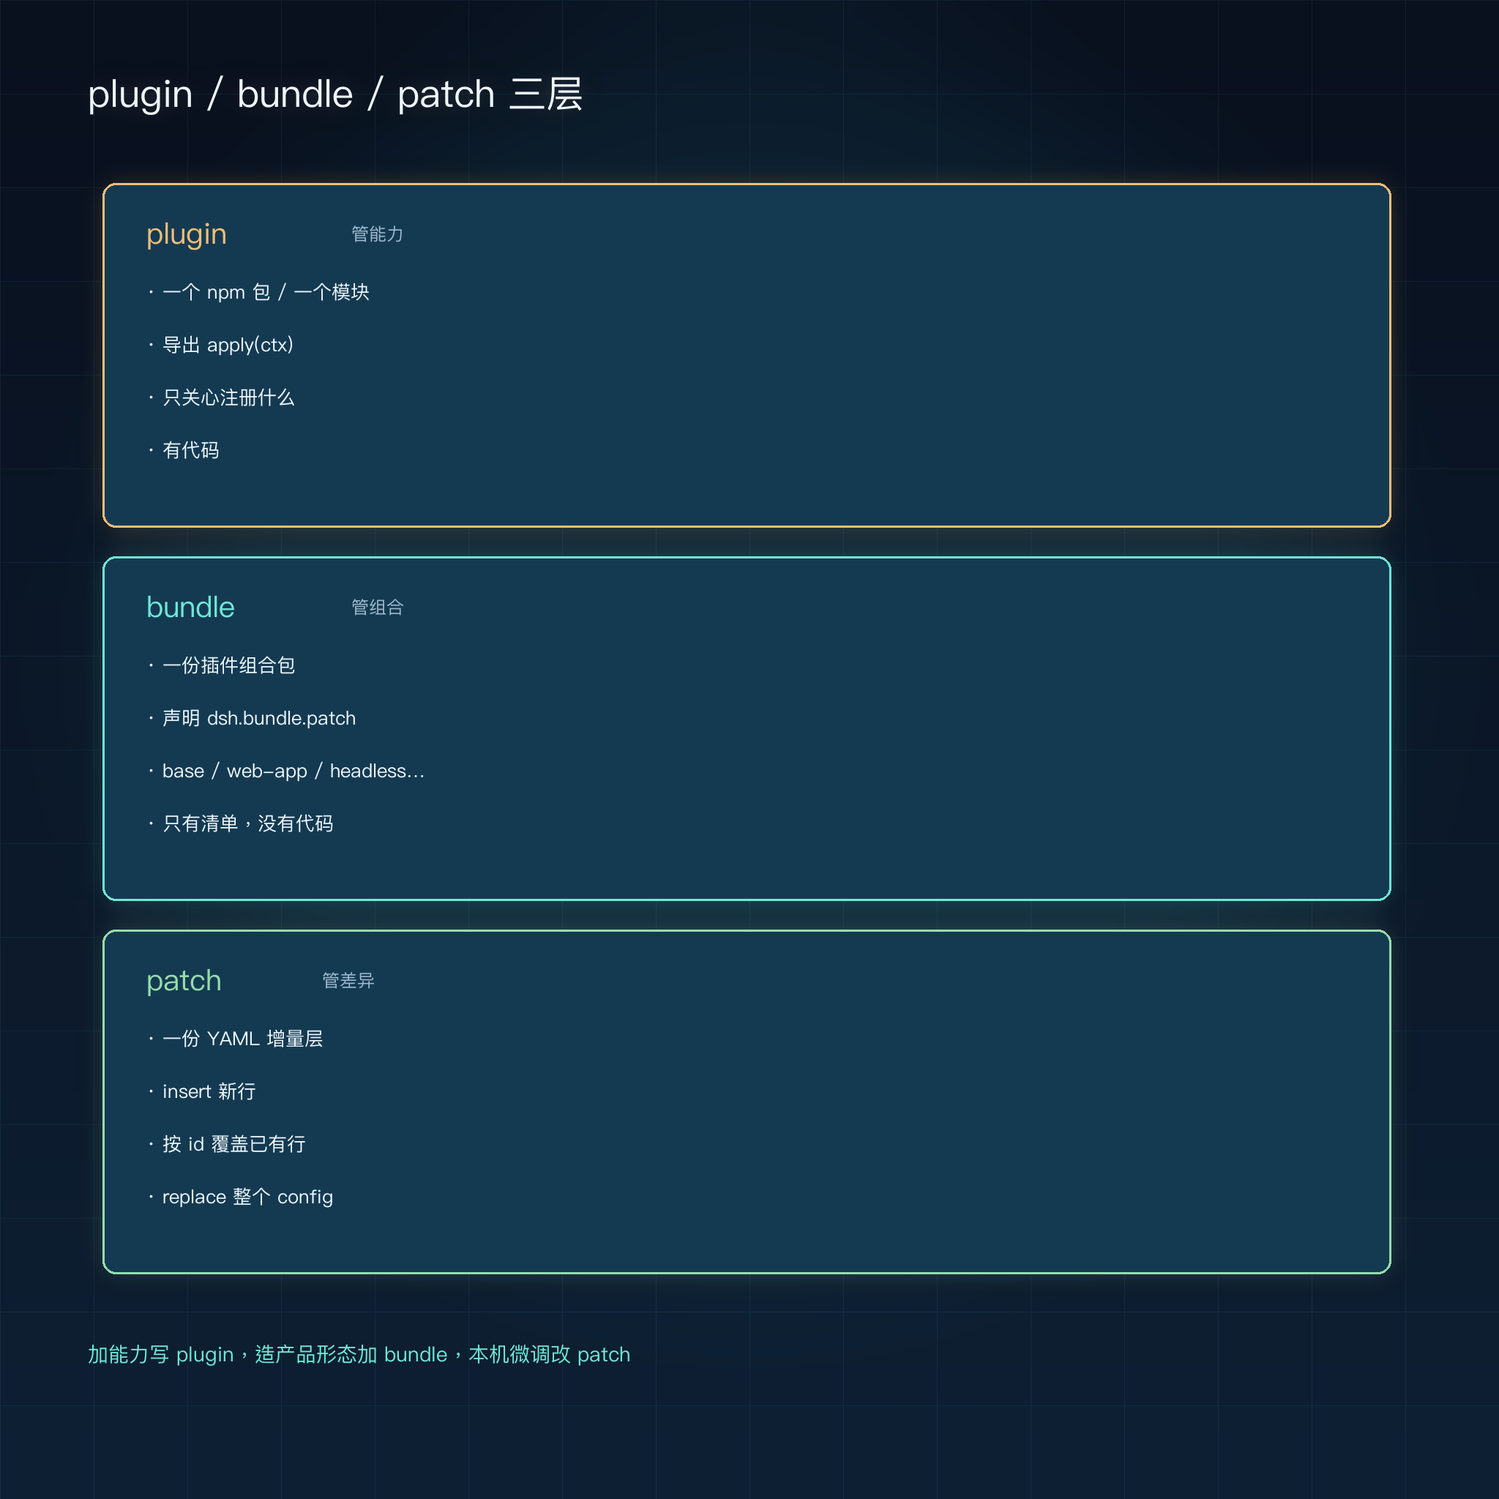
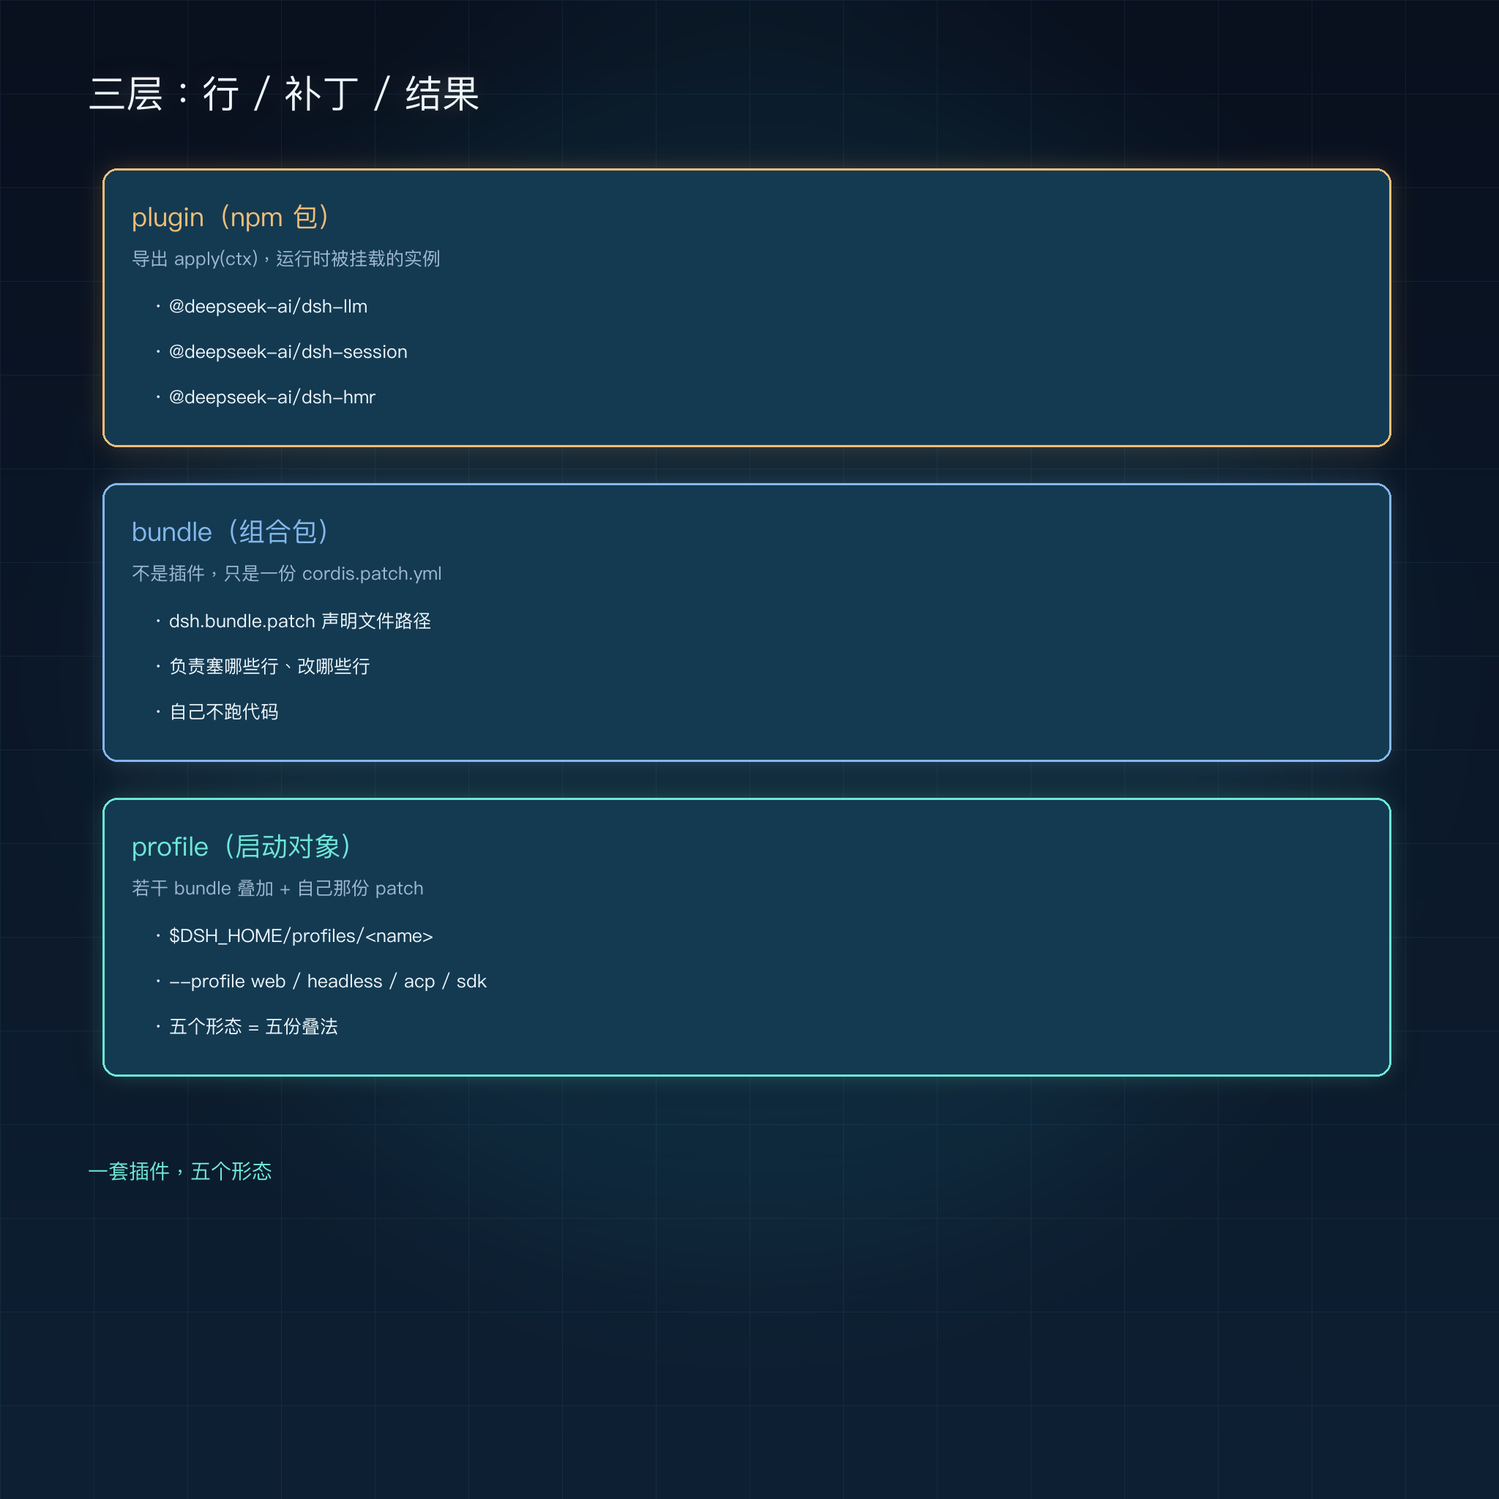
第09篇：插件三层结构，一个仓库怎么长出五个形态

Changed region(s): [[0.0625, 0.0312, 0.9375, 0.9062], [0.8438, 0.5938, 0.9375, 0.625], [0.8438, 0.5, 0.9375, 0.5312]]

diff --git a/notes/09-插件三层.md b/notes/09-插件三层.md
@@ -1,131 +1,117 @@
 ---
 series: deepseek-harness-source-notes
 part: 09
-title: "第09篇：插件三层结构，plugin / bundle / patch 怎么组装出一个应用 | 源码拆解系列"
+title: "第09篇：插件三层结构，一个仓库怎么长出五个形态 | 源码拆解系列"
 version: v0.2.2-rc.1
 commit: fcc0ad462172522aaf5c93a7b2e01f6b9f0b0159
 date: 2026-11-14
 ---
 
-# 第09篇：插件三层结构，plugin / bundle / patch 怎么组装出一个应用
+# 第09篇：插件三层结构，一个仓库怎么长出五个形态
 
-第03篇我们讲清楚了"一个插件长什么样、怎么被加载"。但那时候有个问题被跳过了：dsh 里有几百个插件，它们的清单从哪来？总不能手写一份几百行的配置文件吧。
+前面几篇基本都在讲"一个插件内部怎么干活"。但你可能有个更实际的问题：dsh 有桌面版、Web 版、命令行一次性任务版、ACP 协议版、SDK 版，这五个形态是不是五套代码？
 
-这一篇就解决这个：dsh 用三层——plugin、bundle、patch——把"一个插件"和"一个可运行的应用"之间的那段组装工作拆开了。材料来自上游 `packages/bundle/README.zh.md`、`packages/bundle/base/cordis.patch.yml` 的注释和 `packages/boot/app-boot/README.zh.md`。
+不是。它们共用同一套插件，差别只在——**配置叠了几层 patch**。
 
-## 一、三层各管什么
+这一篇讲清这个叠法。材料来自上游 `packages/bundle/README.zh.md`、`packages/boot/app-boot/README.zh.md`，以及 `packages/bundle/base/cordis.patch.yml` 这份 548 行的清单本身。
 
-先给结论：
+## 一、plugin 是行，bundle 是补丁，profile 是结果
 
-- **plugin** 是最小单位，一个导出 `apply(ctx)` 的模块，对应一个 npm 包。它只关心"我怎么在 ctx 上注册东西"。
-- **bundle** 是一份"插件组合包"，它不写代码，只声明一个 patch 文件（或一组有序的 patch 文件）。base、web-app、headless、acp-app、sdk-app、sdk-minimal 就是官方随发行版交付的六个 bundle。
-- **patch** 是一份 YAML 增量层，里面只有两种动作：`insert` 新行、按 `id` 覆盖已有行。
+先分清三个词，dsh 里它们是不同层级的东西：
 
-关键点：**bundle 里没有代码，只有清单**。`packages/bundle/web-app/` 里除了一个 `cordis.patch.yml` 和一点 locale、presets、src，主体就是那份 YAML。所以"装一个 bundle"这个动作，本质是把一层配置叠到你的 profile 上，不是装一堆依赖。
+**plugin**：一个 npm 包，导出 `apply(ctx)`，在 Cordis 里被挂载成一个运行时实例。这是第03篇讲的东西。
 
-而 profile 是什么？就是 `$DSH_HOME/profiles/<name>` 一个目录，内容是"可安装的组合包列表 + 自己的 `cordis.patch.yml`"。`dsh --profile web` 启动的东西，就是这个目录。
+**bundle**（组合包）：不是插件，是一份 `cordis.patch.yml`。它自己一行代码都不跑，只负责"往配置里塞哪些行、改哪些行的配置"。每个组合包在自己的 `package.json` 里用一个字段声明它：
 
-六个官方 bundle 的分工，一句话就能说清：
-
-| bundle | 干什么 | 挂的 ctx key |
-|---|---|---|
-| base | 共享核心，只有 patch 没有代码 | — |
-| web-app | 浏览器应用层 | 多条 Web 配置行 |
-| headless | 一次性命令行任务 | `headless-runner` |
-| acp-app | 编辑器/客户端协议的 stdio 应用 | ACP bridge |
-| sdk-app | SDK JSON-RPC stdio | SDK 服务器 |
-| sdk-minimal | 不用 base 的独立极简版 | 完整 patch 树 |
-
-注意最后一个 `sdk-minimal` 是个特例：它不基于 base，自己提供一整套完整配置树。这反过来证明了一个设计判断——base 不是"必需的底座"，只是一个"大家都同意共享的那部分"。当你的场景小到不需要那部分时，完全可以不要。
-
-而且 bundle 不只官方的能用。树外（out-of-tree）bundle 通过 `dsh plugin --profile <name> add <package>` 装进 profile；领域包也可以在自己的仓库里声明附加层，不必挤进 `packages/bundle/` 这个目录。也就是说，"造一个 dsh 变体"这件事，不需要 fork 主仓库。
-
-> 配图1 放这里：plugin / bundle / patch 三层职责与内容物
-
-## 二、叠加顺序：后写的赢，按行算
-
-一个 profile 启动时，patch 层是按固定顺序叠上去的：
-
-1. **空 profile 根**（什么都没有）
-2. **base 层**：`dsh-base` bundle 的一次大 `insert`，一次性把共享核心的几十个插件插进来
-3. **模式层**：web-app / headless / acp-app / sdk-app 其中一层，按 `id` 覆盖 base 里那些"这个模式要不一样"的行
-4. **用户的 profile patch**
-5. **home 级 patch**（比 profile 级优先）
-6. **`--patch` 命令行 overlay**
-
-规则只有一句：**按 `id` 定位，同一行后写的赢**。这是整层机制的地基。
-
-base 的注释写得很直白："Later bundle patches and the user's profile cordis.patch.yml address these rows by id, with the last write winning per row."（后面的 bundle patch 和用户 profile patch 都按 id 定位这些行，逐行后写覆盖。）
-
-所以你想改某个插件的配置，不需要找到它、不需要复制整段，只要在你的 profile patch 里写一行 `- id: llm` 加新 config 就完事。
-
-> 配图2 放这里：六层叠加顺序与"同一行后写覆盖"
-
-## 三、replace 不是 merge，这是最容易踩的坑
-
-接下来是最反直觉、也最容易写错的一条：**patch 覆盖一个行时，是替换整行的 `config`，不是深合并**。
-
-base 的注释专门警告了这一点："A patch replaces the targeted row's whole `config` rather than merging into it."（patch 替换目标行的整个 config，而不是合并进去。）
-
-这意味着：如果你只想改一个字段，也必须把这一行的**所有字段全部重述一遍**，否则没写的字段就变默认值了。
-
-就因为这个，base 里故意不写那些"每种模式值都不一样"的行——它把这些行留给模式 bundle 去写完整版本。base 注释原话是："a row whose value differs by mode does NOT live here: it belongs to each mode bundle, keeping any single row down to one bundle layer plus the user's."（值按模式不同的行不放这里，放在各模式 bundle 里，这样任何一行最多只有一层 bundle 加用户层。）
-
-这个设计意图很清楚：避免"base 写一半、web-app 又补一半"，最后谁也不知道这行的完整值是什么。宁可让 web-app 把整行重述一遍，也不要靠多层的局部合并拼出一个值。
-
-看 web-app 里的实际例子：它覆盖 `session-query-sqlite` 时，把 `path` 和 `openAt` 两个字段都重新写了一遍，不是只改其中一个。
-
-顺带一提，这条规则对"读代码"也有好处。你看到一个行被三层引用过，只要看最后一层的手里那段 YAML，就知道它最终是什么——不用像 Kubernetes 的 strategy merge patch 那样，把三层拼在脑子里算一遍。代价是写的时候啰嗦一点，收益是读的时候不用推理。这是个刻意的取舍：**宁可让写的人多写十行，也不让查问题的人多推三步**。
-
-> 配图3 放这里：replace 不是 merge 的对比 + disabled 的 !!js 条件
-
-## 四、行里可以有表达式，而且行序不决定加载顺序
-
-patch 里最灵活的一招是 `!!js` 表达式，启动时插值。base 里到处在用：
-
-```yaml
-- id: hmr
-  name: '@deepseek-ai/dsh-hmr'
-  disabled: "!!js !ctx.get('profileContext')"
+```json
+{"dsh": {"bundle": {"patch": "./cordis.patch.yml"}}}
 ```
 
-这行的意思是：如果没有 profileContext（比如 `dsh --profile web --help` 这种只查帮助的场景），就把 hmr 禁用掉，别起一个没用的服务。
+**profile**：真正被启动的东西。它在 `$DSH_HOME/profiles/<name>` 下，由"若干个组合包的 patch 叠加 + 自己的一份 `cordis.patch.yml`"组成。dsh 用 `--profile` 指定启动哪个：`web`、`headless`、`acp`、`sdk`、`sdk-minimal`。
 
-`web-app` 里还有更细的条件：
+所以"五个形态"的真相是：五个 profile，四份叠法不同的 patch，一套插件。
+
+## 二、叠法：base 打底，模式层覆盖，用户层收尾
+
+`bundle/base` 是所有 profile 的共同底座。它那份 patch 只有**一个 insert**——往空的 profile 根里一次性插入几百行插件：
 
 ```yaml
-- id: desktop-product-telemetry
-  disabled: "!!js ctx.get('profileContext')?.name !== 'desktop'"
+- insert:
+    - id: llm
+      name: '@deepseek-ai/dsh-llm'
+    - id: session
+      name: '@deepseek-ai/dsh-session'
+    - id: hmr
+      name: '@deepseek-ai/dsh-hmr'
+      disabled: !!js "!ctx.get('profileContext')"
 ```
 
-同一份 web-app patch，桌面版和浏览器版共用，靠这一行区分。这就是"一份清单组装出多个产品"的具体做法。
+注意每行都有个 `id`。**这个 id 就是后面所有覆盖操作的锚点**。base 里 `llm` 这行叫 `llm`，模式层想改它的配置，就写 `- id: llm` 加新 config，不用重复写包名。
 
-但注意一件事：**行在 YAML 里的先后顺序不决定加载顺序**。base 注释说得很清楚："Row order carries no load semantics (activation is service-availability driven); the grouping is for readers."（行序不承载加载语义，激活由服务可用性驱动，分组只是为了读者好读。）
+然后 `web-app` 在 base 之上再叠一层，只管 Web 特有的东西：挂 `webserver`、`web-runtime`、`connection`、浏览器端那一串 client 行。`headless` 则相反，它在注释里写得很直接——"**不挂 Host、不挂 HTTP server、不挂 Web runtime、不挂任何浏览器插件**"，只挂一个 `headless-runner` 和一个读命令行参数的 startup provider。
 
-这句话直接呼应第03篇：真正决定谁先加载的，是 `inject` 声明的服务依赖，不是配置文件里的行号。所以那份几百行的 patch 文件，作者可以按"工具类一组、会话类一组、Web 类一组"来排版，纯粹为了人看，不影响任何行为。
+最后是你自己的那份 `cordis.patch.yml`，位于 harness home。规则是**先应用逐 profile 的文件，再应用 home 级文件**，所以后者优先级更高——你在 home 级写的覆盖，能盖掉 profile 自己的。
 
-## 五、加载失败分两种：一种是跳过，一种是炸掉
+官方 base 那份 patch 开头有一段注释，把设计约束说得很清楚：一行配置如果随模式不同而不同，就**不要放在 base**，要放到各个模式 bundle 里去。这样保证"任何一行最多只被一个 bundle 层 + 用户层碰过"。这是个很克制的分层原则——它防的不是写错，而是"这行的值到底谁说了算"说不清。
 
-最后一个工程细节：并不是所有错误都该让应用起不来。
+五个 profile 里有个例外：`sdk-minimal` **不用 base**，自己带一整棵完整的 patch 树。它的定位是不需要 Web、不需要 Host 的极简 SDK 嵌入场景——如果还从 base 叠一个几百行的底座再删，反而不如直接给一份干净的。这也说明"分层"不是教条，是能省事才分层。
 
-**会跳过的**：bundle 解析失败、manifest 读不出、patch 加载失败、平台不匹配（bundle 可以用 `dsh.bundle.platforms: ["darwin"]` 声明只支持哪些平台）、版本范围不满足。这些情况下，整个层被跳过，但"你选择安装过这个 bundle"这个记录保持不变，下次还能用。跳过的 bundle 会列进 `skippedBundles`，启动器每次启动报一次。
+你日常改的东西，绝大多数落在最上面那层。想加个工具？写一段 `insert`。想换个模型？找到 `llm` 那一行改配置。想关掉遥测？找到那行写 `disabled: true`。这些都不需要改启动代码，也不需要重新构建——配置文件的事，配置文件解决。
 
-为什么要这么宽容？因为 bundle 是可插拔的第三方东西，一个坏的第三方包不该让整个应用起不来——降级但能跑，比彻底挂掉强。
+## 三、patch 的语义：整行替换，不是深度合并
 
-**会炸掉的**：profile 自己的 `cordis.patch.yml` 写错了、用户 patch 有错。毕竟那是你自己的配置，写错了就该明确报错，不能默默吞掉。
+这是最容易踩坑的地方。dsh 的 patch 对某一行做覆盖时，**替换的是整份 `config`，不是往里面 merge**。
 
-还有个很讲究的保护：插件被版本检查拒绝时，**它的模块永远不会被 import**。app-boot 的原文是"被拒绝的插件永远不会导入其模块"。检查发生在启动器自己那份组合上，不改 profile 文件。想给某个精确版本开豁免，写在 profile 自己的 `compatibility.json` 里——不是 `package.json`，所以开豁免不会动到依赖清单。
+所以模式层想改 base 某行的某一个字段，必须把这一行所有字段**重述一遍**，包括它不打算改的那些：
 
-另外，`--dump-config` 能让你在启动前看到组合后的完整条目列表，按源文件和 patch 层分组注释，还能直接当 YAML 加载。想知道"我这一行最后到底生效成什么"，用它。
+```yaml
+- id: session-query-sqlite
+  config:
+    path: ':memory:'
+    openAt: never
+```
 
-这个命令的价值常被低估。调 bundle 最痛苦的不是写错，是"我明明改了但没生效"——不知道哪一层盖住了我。dump 会把每一层标出来，还能报出"某个 patch 里的行没匹配到任何目标"这种静默失效。配置系统里，**可观测性比灵活性更重要**。
+这里 `path` 可能 base 里已经有了，但它照样要写。代码注释里反复强调这件事，因为一旦你只写想改的那个字段，剩下的字段就全丢了。
 
-还有一个叫 `sanitizeProfile` 的恢复函数，值得单独提一句：当 profile 因为 patch 写坏了彻底起不来时，它会把你那份 `cordis.patch.yml` 改名成带时间戳的 `.bak` 备份（不删），然后把 bundle 列表恢复成调用方指定的状态。注意它只备份、不删除，也只在下次启动时重新创建一个空 patch。为的是同一个原则——**自动修复可以，自动销毁不行**。
+为什么不做深度合并？因为深度合并的语义太暧昧：数组是替换还是追加？`null` 是删掉还是设成 null？嵌套对象合并到第几层？每个框架都得自己定义一套规则然后被用户骂。dsh 选了最笨也最不会歧义的方式：整行给你，你自己写全。代价是啰嗦，收益是"配置文件看一遍就知道最终值是什么"。
+
+## 四、`!!js` 表达式：配置里的值是延迟算出来的
+
+上面那些 yaml 里有不少 `!!js`，比如：
+
+```yaml
+disabled: !!js "!ctx.get('profileContext')"
+task: !!js ctx.headlessStartup.task
+```
+
+这不是模板字符串，是 Cordis 在加载配置时**求值的表达式**。它带来的能力是：配置项的值可以依赖运行时的 ctx——某个服务在不在、某个 provider 提供了什么、命令行参数是什么。
+
+所以"禁用某行"不是写死 `true`，而是写"**如果没有 profileContext 就禁用**"。这意味着同一份 base patch，在桌面版（有 profile 上下文）和别的场景下会自动产生不同结果——不用维护两套配置。
+
+`headless` 那份更妙：`task: !!js ctx.headlessStartup.task`，任务内容从哪来？从命令行位置参数来。startup provider 先把它解析好、注册成服务，然后 `headless-runner` 这一行才去读。这就是为什么它要给 runner 写 `inject: [headlessStartup]`——**告诉 Loader"等这个服务就绪了再挂我"**，也就是第03篇讲的依赖拓扑排序，在配置文件层面显式用上了。
+
+## 五、失败了怎么办：跳过、警告、还是整个不启动
+
+几百行插件，总有一行会挂。dsh 的处理分三档：
+
+**第一档，普通行失败**：产生一条带标签的 warning，启动继续。所有能起来的插件都会起来。
+
+**第二档，required 行失败**：整个应用拆掉，非零码退出。全局 required 列表覆盖的是那些缺了就完全没法用的东西——`agent-loop`、`tool-executor-native`、`tool-executor-ptc`、`webserver`、`web-runtime`、`modules`、`connection`。少任何一个，这个形态就不是它了。
+
+**第三档，组合包本身有问题**：比如它的 `package.json` 里的 DSH 版本要求跟当前运行时对不上，或者平台声明不匹配（`dsh.bundle.platforms: ["darwin"]` 在 Linux 上就跳过）。这种不是报错退出，而是**整个这一层 patch 被跳过**，记到 `skippedBundles` 里，每次启动报告一次，其余层照常生效。
+
+第三档的设计意图很明确：组合包是可以从外部安装的（`dsh plugin --profile <name> add <package>`），装了个不兼容的包不应该让你的编辑器打不开。跳过它、告诉你、继续跑。
+
+还有个细节：版本兼容检查发生在**导入插件模块之前**。被拒绝的插件永远不会被 import，所以它那些顶层副作用一行都不会跑。这是个安全边界，虽然文档也老实承认"这不是防范恶意包代码的沙箱"。
 
 ---
 
-串一下：第03篇讲 Cordis 怎么加载一个插件，这篇讲这些插件清单从哪来、怎么叠出来的。第04篇说一切皆 seam，那 bundle 就是"一次性把一堆 seam 的 provider 和 consumer 都挂上"的清单。第08篇说模型层可替换，落到配置上就是"改 `- id: llm` 那一行"。
+串一下：第03篇讲插件怎么被 Cordis 装上拆下，这篇讲的是**谁决定装哪些插件**——一份可以层层叠加的 patch 清单；第04篇讲 seam 让能力可替换，这篇讲的是让"整个应用形态"可替换的机制，粒度更大一层。
 
-三层的分工可以一句话收尾：**plugin 管能力，bundle 管组合，patch 管差异**。你要给这个系统加个新能力，写个 plugin；你要造一个新的产品形态，加个 bundle；你要在自己的机器上微调，改 patch。三者互不越界。
+这里也能看出 dsh 的一个整体思路：它能替换的东西，从"一个模型供应商"（第08篇）、到"一个工具"、到"一整套应用界面"，走的是同一套机制——**声明、注册、按 id 覆盖**。没有为"发行版"单独发明一套构建系统。
 
-下一篇（第10篇）我们换个方向，讲工具执行那套流水线里的权限判定和 confirm 流程——为什么 dsh 在跑一条 shell 命令前能明确知道该不该问你、问几遍。
+下一篇（第10篇）我们讲工具层：一个工具从注册到被模型调用，中间要过哪几道关，以及为什么 MCP 工具和原生工具能走同一条流水线。
+
+> 配图1 放这里：三层结构 plugin 行 / bundle patch / profile
+> 配图2 放这里：profile 组装顺序 base → 模式层 → 用户层
+> 配图3 放这里：patch 整行替换语义 + 失败三档
